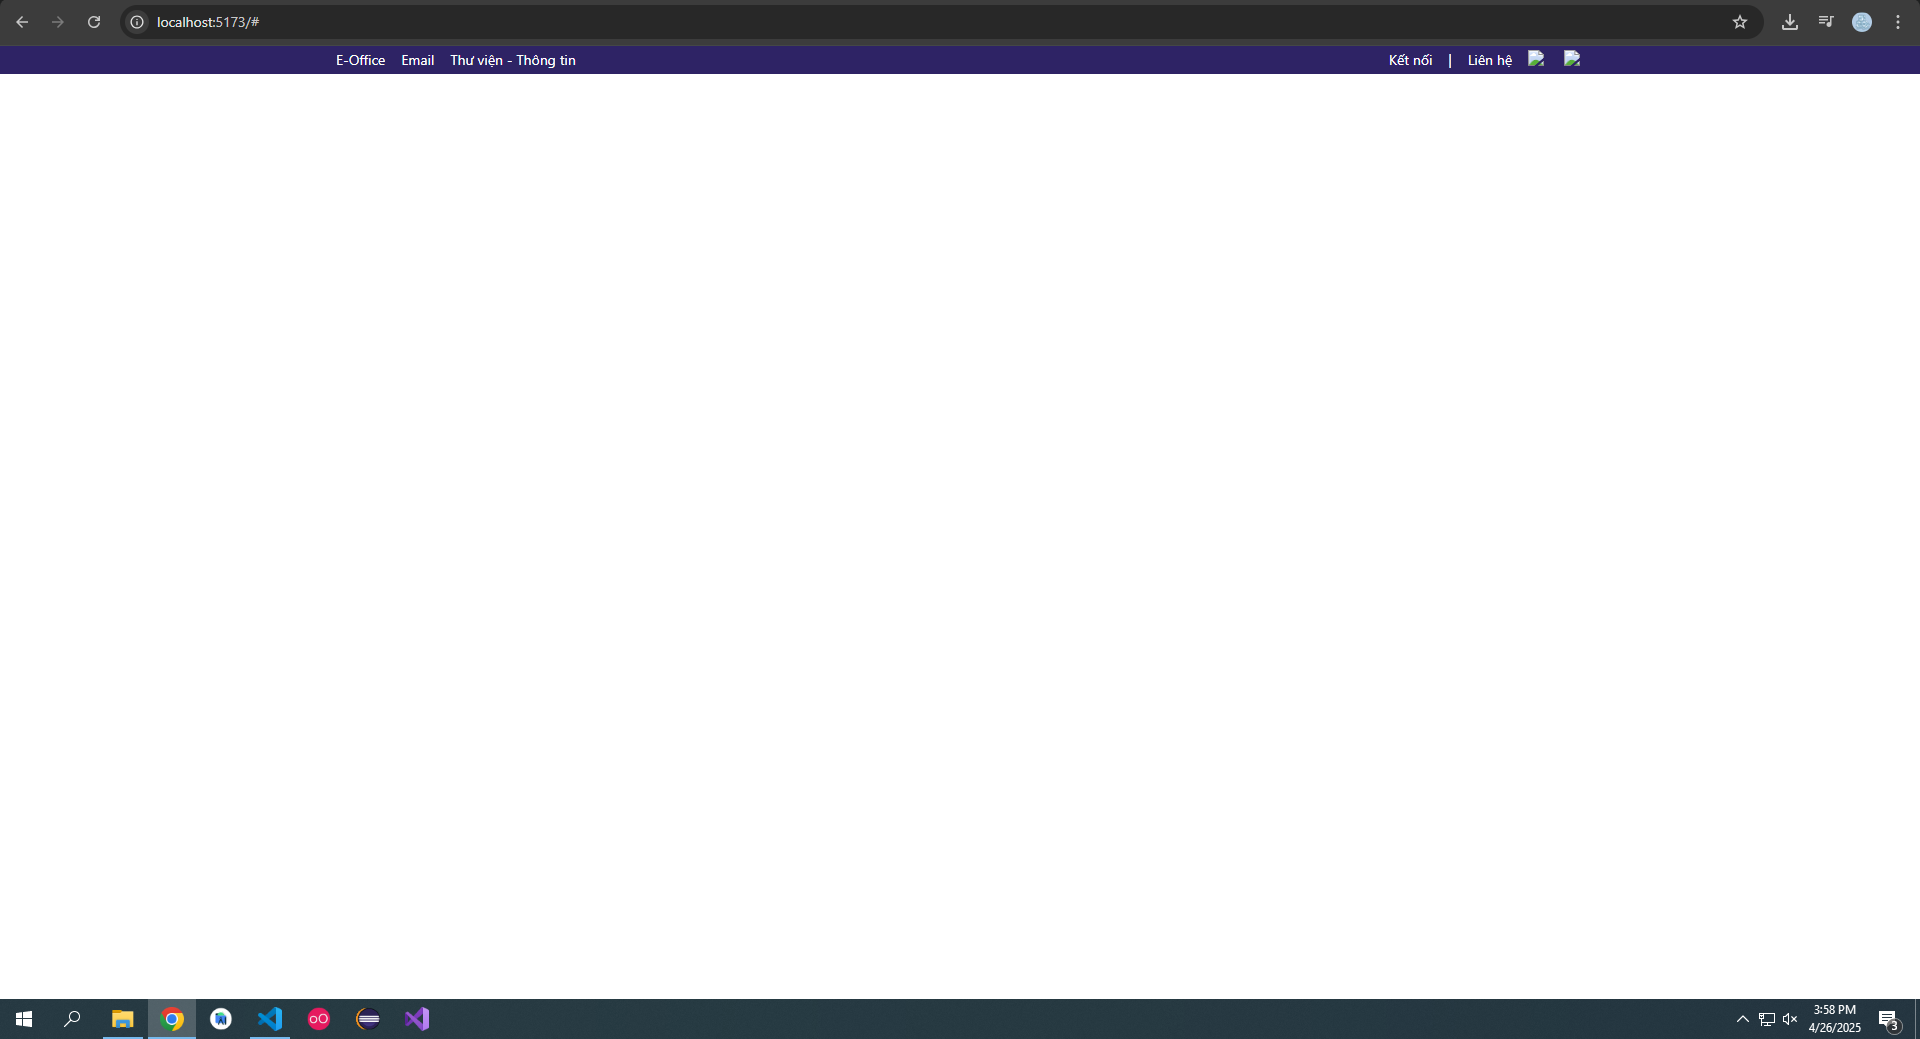
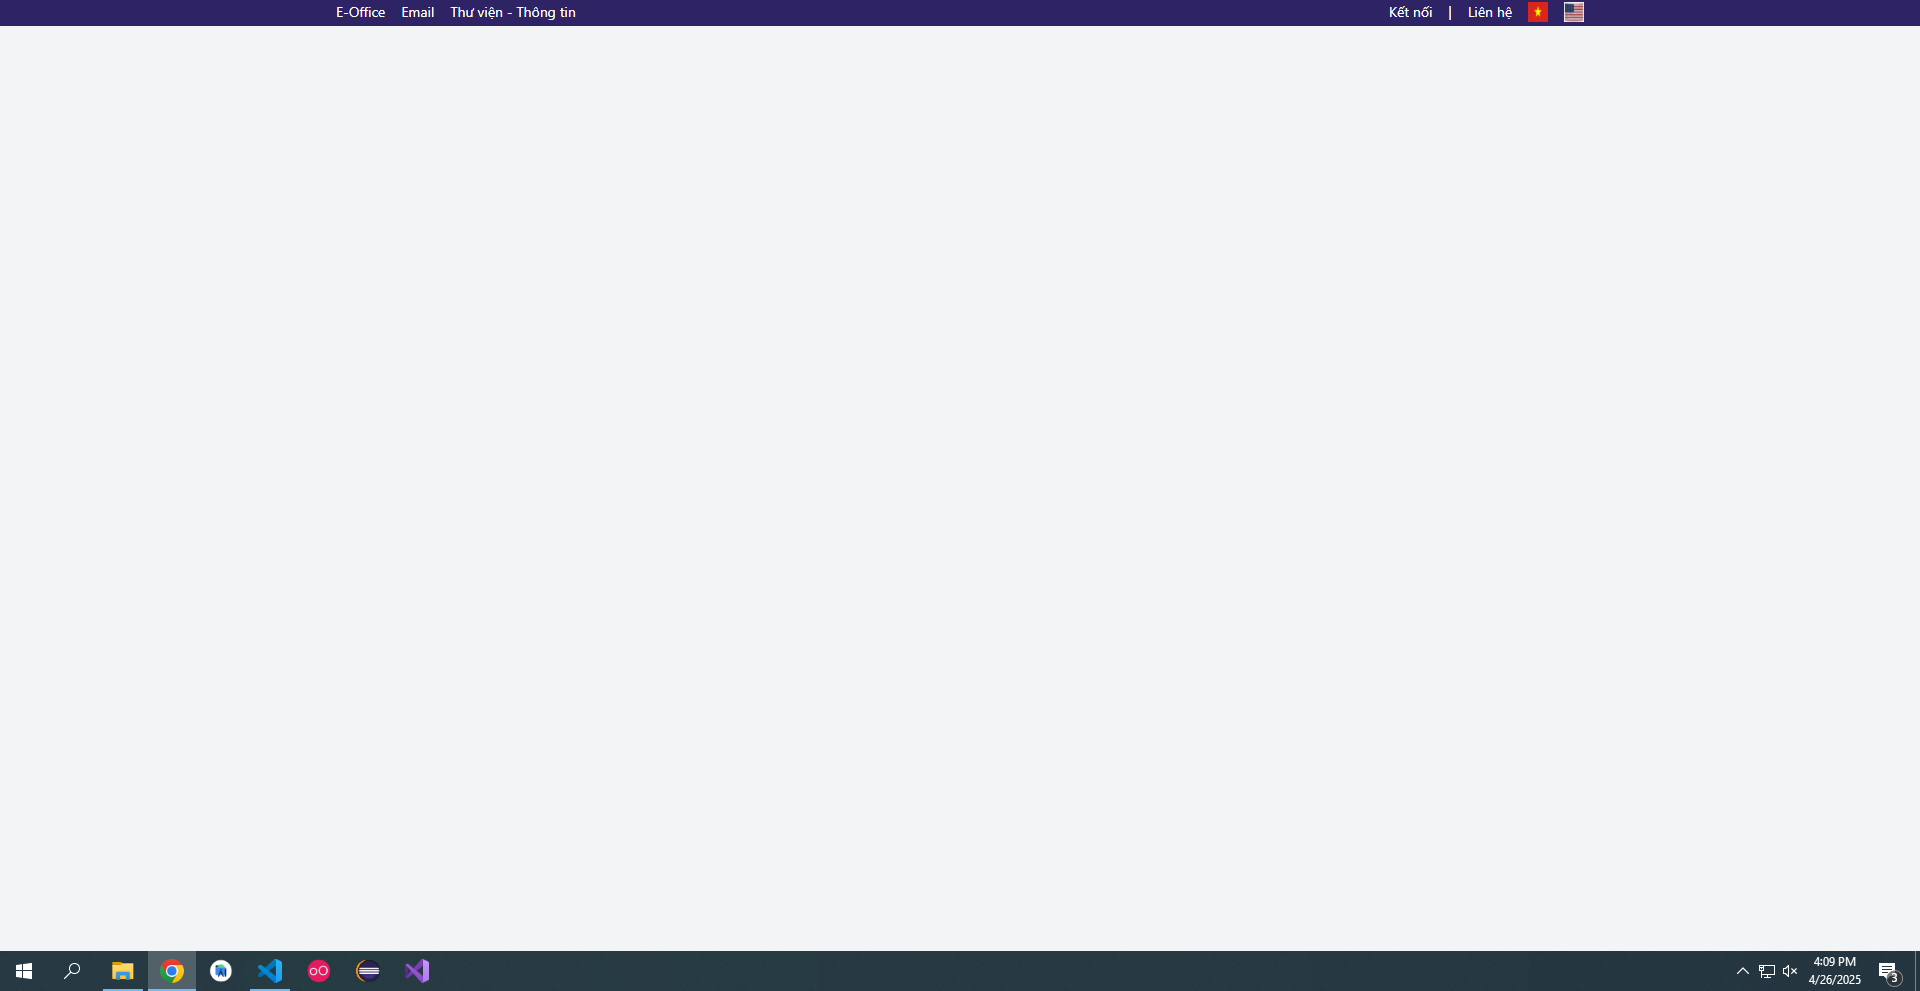
Cau 1 update

diff --git a/src/components/Header.jsx b/src/components/Header.jsx
@@ -1,0 +1,26 @@
+import React from "react";
+
+const Header = () => {
+  return (
+    <div className="bg-blue-100 py-2 px-6 flex items-center">
+      {/* Logo bên trái */}
+      <img
+        src="/iuh.png"
+        alt="Logo Trường"
+        className="h-20 mr-6" // cao 80px, cách text 1 chút
+      />
+      {/* Text bên phải */}
+      <div className="flex flex-col text-center flex-1">
+        <h1 className="text-xl font-bold text-blue-900 leading-tight">
+          BỘ CÔNG THƯƠNG<br />
+          <span className="text-2xl">ĐẠI HỌC CÔNG NGHIỆP TP. HỒ CHÍ MINH</span>
+        </h1>
+        <p className="text-sm text-red-600 mt-1">
+          Đổi mới tư duy, làm giàu thêm tri thức - đời sống
+        </p>
+      </div>
+    </div>
+  );
+};
+
+export default Header;

diff --git a/src/components/Topbar.jsx b/src/components/Topbar.jsx
@@ -19,10 +19,10 @@ const Topbar = () => {
 
           {/* Flags */}
           <a href="#" className="flex items-center gap-1">
-            <img src="./img/vn.jpg" alt="VN" className="w-5 h-5" />
+            <img src="/vn.png" alt="VN" className="w-5 h-5" />
           </a>
           <a href="#" className="flex items-center gap-1">
-            <img src="./img/my.jpg" alt="EN" className="w-5 h-5" />
+            <img src="/my.png" alt="EN" className="w-5 h-5" />
           </a>
         </div>
       </div>

diff --git a/src/App.jsx b/src/App.jsx
@@ -1,9 +1,14 @@
+import React from "react";
 import Topbar from "./components/Topbar";
+import Header from "./components/Header";
 
-export default function HomePage() {
+function App() {
   return (
-    <div className="flex flex-col min-h-screen">
+    <div className="w-full min-h-screen bg-gray-100">
       <Topbar />
+      
     </div>
   );
 }
+
+export default App;
